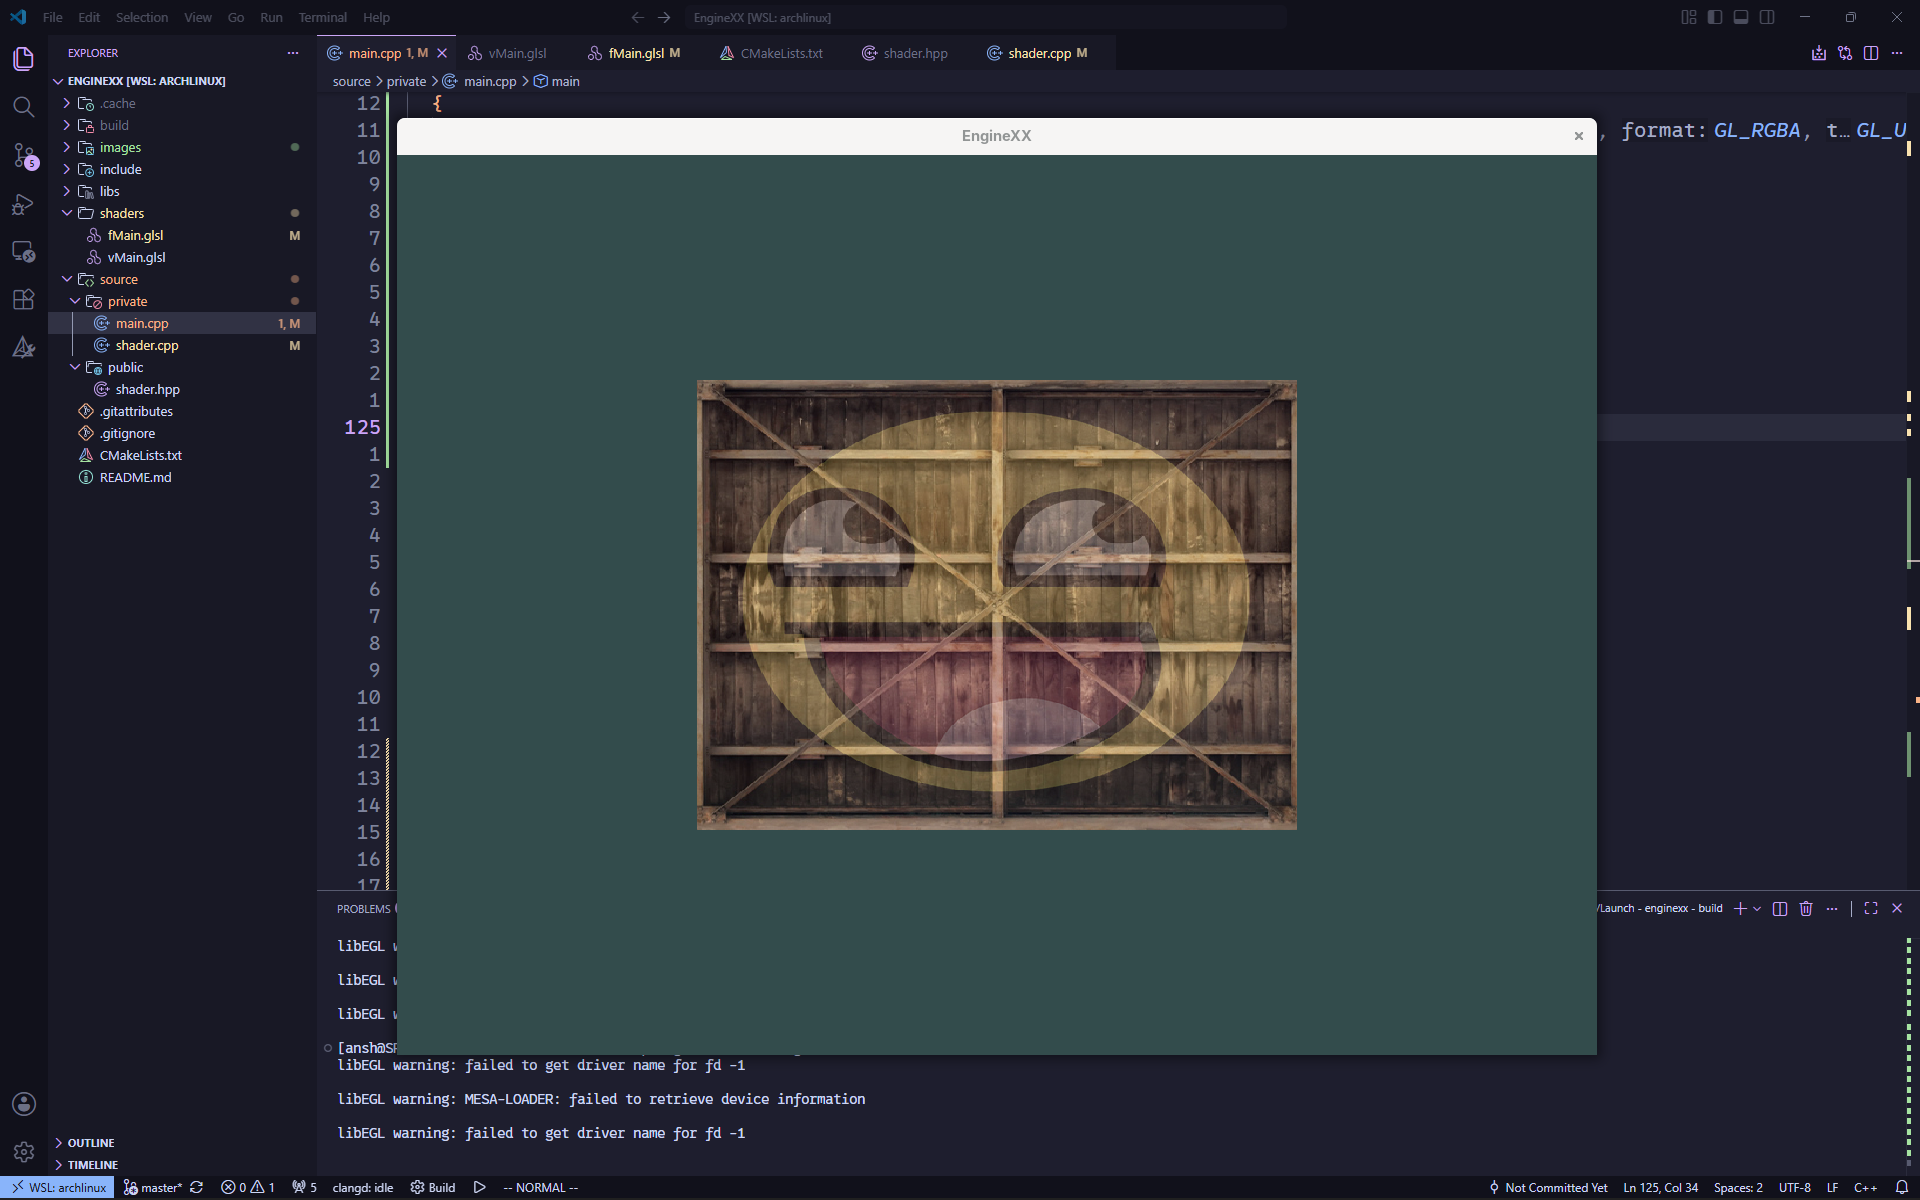
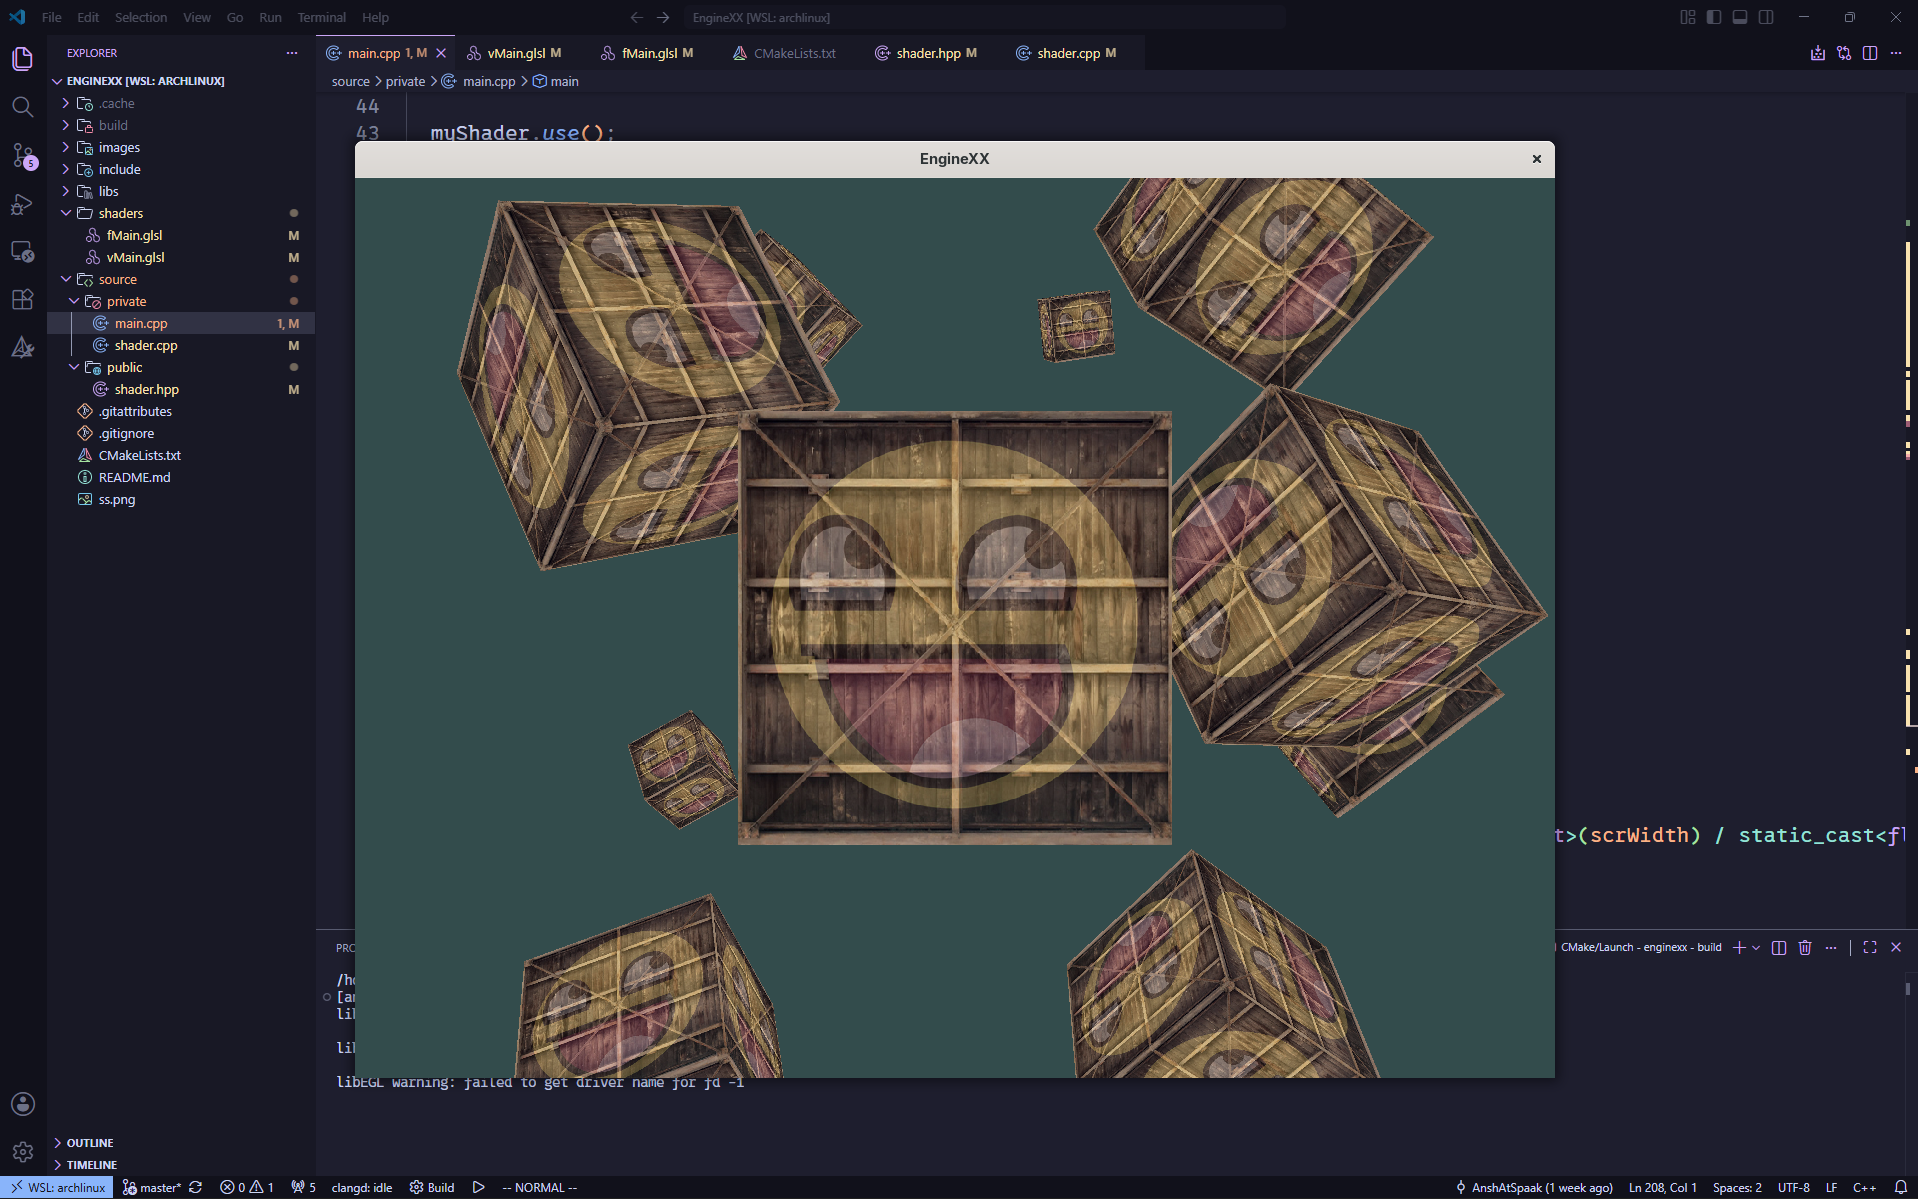
model view proj matrix done

diff --git a/source/private/main.cpp b/source/private/main.cpp
@@ -41,43 +41,83 @@ int main()
     return -1;
   }
 
+  glEnable(GL_DEPTH_TEST);
+
   Shader myShader {SHADER_DIR "vMain.glsl", SHADER_DIR "fMain.glsl"};
 
   float vertices[] 
   {
-    0.5f, 0.5f, 0.0f, 1.0f, 0.0f, 0.0f, 1.0f, 1.0f,
-    0.5f, -0.5f, 0.0f, 0.0f, 1.0f, 0.0f, 1.0f, 0.0f,
-    -0.5f, -0.5f, 0.0f, 0.0f, 0.0f, 1.0f, 0.0f, 0.0f,
-    -0.5f, 0.5f, 0.0f, 1.0f, 1.0f, 0.0f, 0.0f, 1.0f
-  };
+    -0.5f, -0.5f, -0.5f,  0.0f, 0.0f,
+     0.5f, -0.5f, -0.5f,  1.0f, 0.0f,
+     0.5f,  0.5f, -0.5f,  1.0f, 1.0f,
+     0.5f,  0.5f, -0.5f,  1.0f, 1.0f,
+    -0.5f,  0.5f, -0.5f,  0.0f, 1.0f,
+    -0.5f, -0.5f, -0.5f,  0.0f, 0.0f,
 
-  unsigned int indices[]
+    -0.5f, -0.5f,  0.5f,  0.0f, 0.0f,
+     0.5f, -0.5f,  0.5f,  1.0f, 0.0f,
+     0.5f,  0.5f,  0.5f,  1.0f, 1.0f,
+     0.5f,  0.5f,  0.5f,  1.0f, 1.0f,
+    -0.5f,  0.5f,  0.5f,  0.0f, 1.0f,
+    -0.5f, -0.5f,  0.5f,  0.0f, 0.0f,
+
+    -0.5f,  0.5f,  0.5f,  1.0f, 0.0f,
+    -0.5f,  0.5f, -0.5f,  1.0f, 1.0f,
+    -0.5f, -0.5f, -0.5f,  0.0f, 1.0f,
+    -0.5f, -0.5f, -0.5f,  0.0f, 1.0f,
+    -0.5f, -0.5f,  0.5f,  0.0f, 0.0f,
+    -0.5f,  0.5f,  0.5f,  1.0f, 0.0f,
+
+     0.5f,  0.5f,  0.5f,  1.0f, 0.0f,
+     0.5f,  0.5f, -0.5f,  1.0f, 1.0f,
+     0.5f, -0.5f, -0.5f,  0.0f, 1.0f,
+     0.5f, -0.5f, -0.5f,  0.0f, 1.0f,
+     0.5f, -0.5f,  0.5f,  0.0f, 0.0f,
+     0.5f,  0.5f,  0.5f,  1.0f, 0.0f,
+
+    -0.5f, -0.5f, -0.5f,  0.0f, 1.0f,
+     0.5f, -0.5f, -0.5f,  1.0f, 1.0f,
+     0.5f, -0.5f,  0.5f,  1.0f, 0.0f,
+     0.5f, -0.5f,  0.5f,  1.0f, 0.0f,
+    -0.5f, -0.5f,  0.5f,  0.0f, 0.0f,
+    -0.5f, -0.5f, -0.5f,  0.0f, 1.0f,
+
+    -0.5f,  0.5f, -0.5f,  0.0f, 1.0f,
+     0.5f,  0.5f, -0.5f,  1.0f, 1.0f,
+     0.5f,  0.5f,  0.5f,  1.0f, 0.0f,
+     0.5f,  0.5f,  0.5f,  1.0f, 0.0f,
+    -0.5f,  0.5f,  0.5f,  0.0f, 0.0f,
+    -0.5f,  0.5f, -0.5f,  0.0f, 1.0f
+  };
+  
+  glm::vec3 cubePos[]
   {
-    0, 1, 3,
-    1, 2, 3
+    glm::vec3(0.0f, 0.0f, 0.0f),
+    glm::vec3(2.0f, 5.0f, -15.0f),
+    glm::vec3(-1.5f, -2.2f, -2.5f),
+    glm::vec3(-3.8f, -2.0f, -12.3f),
+    glm::vec3(2.4f, -0.4f, -3.5f),
+    glm::vec3(-1.7f, 3.0f,-7.5f),
+    glm::vec3(1.3f, -2.0f, -2.5f),
+    glm::vec3(1.5f, 2.0f, -2.5f),
+    glm::vec3(1.5f, 0.2f, -1.5f),
+    glm::vec3(-1.3f, 1.0f, -1.5f)
   };
 
-  unsigned int VBO, VAO, EBO;
+  unsigned int VBO, VAO;
   glGenVertexArrays(1, &VAO);
   glGenBuffers(1, &VBO);
-  glGenBuffers(1, &EBO);
 
   glBindVertexArray(VAO);
 
   glBindBuffer(GL_ARRAY_BUFFER, VBO);
   glBufferData(GL_ARRAY_BUFFER, sizeof(vertices), vertices, GL_STATIC_DRAW);
 
-  glBindBuffer(GL_ELEMENT_ARRAY_BUFFER, EBO);
-  glBufferData(GL_ELEMENT_ARRAY_BUFFER, sizeof(indices), indices, GL_STATIC_DRAW);
-
-  glVertexAttribPointer(0, 3, GL_FLOAT, GL_FALSE, 8 * sizeof(float), (void*)0);
+  glVertexAttribPointer(0, 3, GL_FLOAT, GL_FALSE, 5 * sizeof(float), (void*)0);
   glEnableVertexAttribArray(0);
 
-  glVertexAttribPointer(1, 3, GL_FLOAT, GL_FALSE, 8 * sizeof(float), (void*)(3 * sizeof(float)));
+  glVertexAttribPointer(1, 2, GL_FLOAT, GL_FALSE, 5 * sizeof(float), (void*)(3 * sizeof(float)));
   glEnableVertexAttribArray(1);
-
-  glVertexAttribPointer(2, 2, GL_FLOAT, GL_FALSE, 8 * sizeof(float), (void*)(6 * sizeof(float)));
-  glEnableVertexAttribArray(2);
 
   unsigned int texture01, texture02;
   glGenTextures(1, &texture01);
@@ -134,25 +174,37 @@ int main()
 
     // all the render loop magic
     glClearColor(0.2f, 0.3f, 0.3f, 1.0f);
-    glClear(GL_COLOR_BUFFER_BIT);
+    glClear(GL_COLOR_BUFFER_BIT | GL_DEPTH_BUFFER_BIT);
 
     glActiveTexture(GL_TEXTURE0);
     glBindTexture(GL_TEXTURE_2D, texture01);
     glActiveTexture(GL_TEXTURE1);
     glBindTexture(GL_TEXTURE_2D, texture02);
   
+    myShader.use();
+    
     myShader.setFloat("mixFactor", mixFactor);
 
-    glm::mat4 trans = glm::mat4(1.0f);
-    trans = glm::translate(trans, glm::vec3(0.5f, -0.5f, 0.0f));
-    trans = glm::rotate(trans, static_cast<float>(glfwGetTime()), glm::vec3(0.0f, 0.0f, 1.0f));
+    glm::mat4 view { glm::mat4(1.0f) };
+    glm::mat4 projection { glm::mat4(1.0f) };
 
-    unsigned int transformLoc { static_cast<unsigned int>(glGetUniformLocation(myShader.m_ID, "transform")) };
-    glUniformMatrix4fv(transformLoc, 1, GL_FALSE, glm::value_ptr(trans));
+    projection = glm::perspective(glm::radians(45.0f), static_cast<float>(scrWidth) / static_cast<float>(scrHeight), 0.1f, 100.0f);
+    view = glm::translate(view, glm::vec3(0.0f, 0.0f, -3.0f));
 
-    myShader.use();
+    myShader.setMat4("projection", projection);
+    myShader.setMat4("view", view);
+
     glBindVertexArray(VAO);
-    glDrawElements(GL_TRIANGLES, 6, GL_UNSIGNED_INT, 0);
+    for (unsigned int i { 0 }; i < 10; ++i)
+    {
+      glm::mat4 model { glm::mat4(1.0f) };
+      model = glm::translate(model, cubePos[i]);
+      float angle { 20.0f * i };
+      model = glm::rotate(model, glm::radians(angle), glm::vec3(1.0f, 0.3f, 0.5f));
+      myShader.setMat4("model", model);
+
+      glDrawArrays(GL_TRIANGLES, 0, 36);
+    }
 
     // checking events and swapping buffers
     glfwSwapBuffers(window);
@@ -161,7 +213,7 @@ int main()
 
   glDeleteVertexArrays(1, &VAO);
   glDeleteBuffers(1, &VBO);
-  glDeleteBuffers(1, &EBO);
+  // glDeleteBuffers(1, &EBO);
 
   glfwTerminate();
   return 0;

diff --git a/source/private/shader.cpp b/source/private/shader.cpp
@@ -6,6 +6,8 @@
 
 #include <glad/glad.h>
 
+#include <glm/gtc/type_ptr.hpp>
+
 Shader::Shader(const char* vertexPath, const char* fragmentPath)
 {
   std::string vertexCode;
@@ -92,4 +94,9 @@ void Shader::setInt(const std::string& name, int value) const
 void Shader::setFloat(const std::string& name, float value) const
 {
   glUniform1f(glGetUniformLocation(m_ID, name.c_str()), static_cast<float>(value));
+}
+
+void Shader::setMat4(const std::string& name, glm::mat4 value) const
+{
+  glUniformMatrix4fv(glGetUniformLocation(m_ID, name.c_str()), 1, GL_FALSE, glm::value_ptr(value));
 }

diff --git a/source/public/shader.hpp b/source/public/shader.hpp
@@ -2,6 +2,7 @@
 #define SHADER_HPP
 
 #include <string>
+#include <glm/glm.hpp>
 
 class Shader
 {
@@ -16,6 +17,7 @@ public:
   void setBool(const std::string& name, bool value) const;
   void setInt(const std::string& name, int value) const;
   void setFloat(const std::string& name, float value) const;
+  void setMat4(const std::string& name, glm::mat4 value) const;
 };
 
 #endif